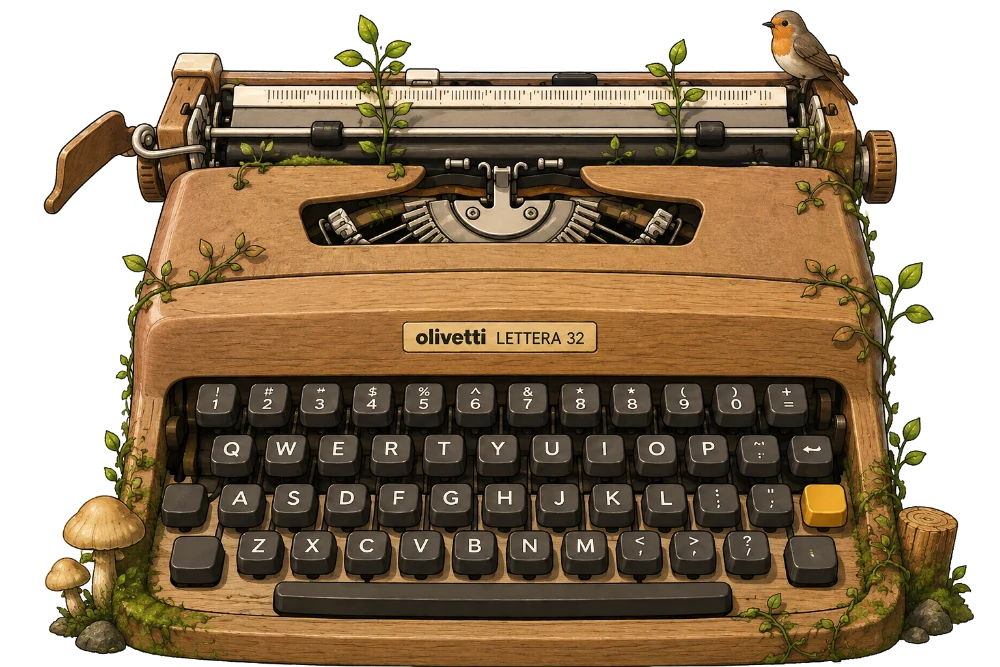
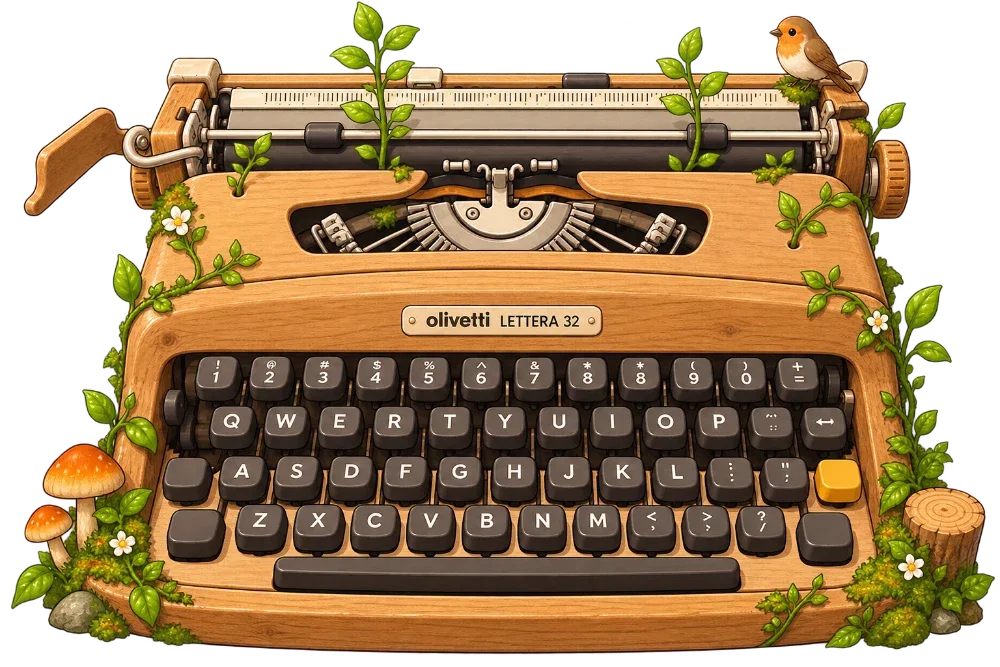
feat: 참나무 타자기를 5.png 로 교체
같은 계열(나무+식물)을 하나 더 놓는 대신 기존 참나무를 바꿨다.
두 나무를 나란히 두면 몸통 색이 ΔE 8.2 로, 나란히 놓고도 겨우 구분되는 거리였다
(나머지 아홉 쌍은 전부 23 이상). D9 의 출발점이 '여덟 색이 서로 안 달라서' 였으니
대수를 늘리며 가장 가까운 쌍을 8.2 로 만드는 것은 같은 실수의 축소판이다.

- 새 그림은 선이 정리되고 밝다. 자판 자리표를 다시 재서 넣고 눈으로 확인했다
- 점 색을 밝은 나무에 맞춰 #a3855f → #b4936e (채도 0.39, 상한 0.44 이하)
- 219KB 였던 것을 191KB 로 다시 인코딩 — 문서가 정한 200KB 선을 지킨다
- 목소리는 그대로. 여전히 네 대 중 가장 둔탁하다

Claude-Session: https://claude.ai/code/session_01W5vdwc38oAevLUK7SsGN3C

diff --git a/src/design/typewriters.ts b/src/design/typewriters.ts
@@ -77,12 +77,12 @@ export const TYPEWRITERS = [
   },
   {
     id: 'oak', label: '참나무',
-    tint: '#a3855f', glow: 'rgba(255, 214, 150, .95)', src: oak,
+    tint: '#b4936e', glow: 'rgba(255, 220, 165, .95)', src: oak,
     rows: [
-      { y: 60.0, x0: 21.7, gap: 5.18 },
-      { y: 67.5, x0: 24.0, gap: 5.20 },
-      { y: 75.0, x0: 23.8, gap: 5.30 },
-      { y: 82.5, x0: 26.2, gap: 5.30 },
+      { y: 57.3, x0: 21.7, gap: 5.32 },
+      { y: 64.5, x0: 23.3, gap: 5.30 },
+      { y: 71.5, x0: 24.5, gap: 5.31 },
+      { y: 78.5, x0: 26.5, gap: 5.33 },
     ],
     // 나무는 낮고 둔탁하다. 네 대 중 가장 어두운 소리 — 대역을 더 내리고 몸통을 더 울린다.
     voice: {

diff --git a/docs/typewriter-photos.md b/docs/typewriter-photos.md
@@ -10,7 +10,7 @@ D9 결정: 사진 한 장에 필터를 걸어 색을 만들지 않는다. **네 
 | id | 이름 | 그림 | 소리 |
 |---|---|---|---|
 | `steel` | 강철 | 담백한 블루그레이 | 밝고 마른 타건. §6-1 의 기본값 |
-| `oak` | 참나무 | 나무 · 이끼 · 버섯 · 새 | 가장 낮고 둔탁. 몸통이 울린다 |
+| `oak` | 참나무 | 밝은 꿀빛 나무 · 잎 · 버섯 · 새 | 가장 낮고 둔탁. 몸통이 울린다 |
 | `sugar` | 설탕 | 분홍 · 크림 · 체리 | 가볍고 높고 짧다. 유리 종 같은 벨 |
 | `moss` | 이끼 | 민트 · 덩굴 · 꽃 · 달팽이 | 부드럽고 먹먹하다 |
 
@@ -45,6 +45,13 @@ D9 결정: 사진 한 장에 필터를 걸어 색을 만들지 않는다. **네 
    pnpm build && pnpm preview &
    pnpm ui:check4       # A 를 누르면 A 키 자리에 오는가
    ```
+
+## 왜 네 대인가
+
+다섯 번째로 같은 계열(나무+식물)을 하나 더 놓아 봤더니, 두 나무의 몸통 색이 ΔE 8.2 로
+나란히 놓고도 겨우 구분되는 거리였다. 나머지 아홉 쌍은 전부 23 이상이었다.
+D9 의 출발점이 "여덟 색이 서로 안 달라서" 였으므로, 대수를 늘리며 가장 가까운 쌍을
+8.2 로 만드는 것은 같은 실수의 축소판이다. **늘리기 전에 `pnpm tint:check` 로 먼저 잰다.**
 
 ## 대수를 바꾼다면
 
